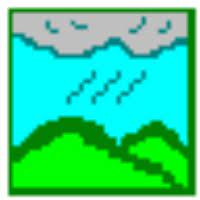
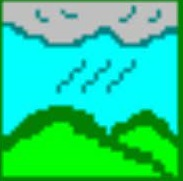
changing the colors and some styles and the project picture

diff --git a/index.html b/index.html
@@ -9,7 +9,7 @@
      <meta name="description" content="">
      <meta name="keywords" content="">
      <meta name="author" content="">
-     <meta name="viewport" content="width=device-width, initial-scale=1, maximum-scale=1">
+     <meta name="viewport" content="width=device-width, initial-scale=1.0, maximum-scale=1">
 
      <link rel="stylesheet" href="css/bootstrap.min.css">
      <link rel="stylesheet" href="css/font-awesome.min.css">
@@ -122,7 +122,7 @@
                     <div class="col-lg-6 col-md-5 col-12">
                          <div class="contact-image" data-aos="fade-up">
                               
-                              <img src="images/project.jpg" class="img-fluid projectimg" alt="project">
+                              <img src="images/projectt.jpg" class="img-fluid projectimg" alt="project">
                          </div>
                     </div>
                     
@@ -251,7 +251,7 @@
                     <div class="col-xs-6 col-lg-3 col-md-6 mb-5">
                          <div class="card h-100">
                               <!-- Product image-->
-                              <img class="card-img-top card-image" src="./images/Skills/Python.png" alt="..." />
+                              <img class="card-img-top card-image pythonimg" src="./images/Skills/Python.png" alt="..." />
                               <!-- Product details-->
                              
                               <!-- Product actions-->
@@ -457,7 +457,7 @@
         <div class="row">
 
           <div class="col-lg-5 mx-lg-auto col-md-8 col-10">
-            <h1 class="text-white" data-aos="fade-up" data-aos-delay="100"> <strong><span style="color: #f7b3c9;"> Sepideh </span> Alizadeh</strong></h1>
+            <h1 class="text-white" data-aos="fade-up" data-aos-delay="100"> <strong><span> Sepideh </span> Alizadeh</strong></h1>
           </div>
 
           <div class="col-lg-5 col-md-6 col-12" data-aos="fade-up" data-aos-delay="200">

diff --git a/css/main.css b/css/main.css
@@ -148,14 +148,15 @@
     background: var(--white-color);
     color: #990820;
     border-color: transparent;
-	transition: all .3s ease;
+  	transition: all .3s ease;
   }
   
   .custom-btn:hover,
   .custom-btn:focus {
     background: #990820;
-    color: #7c777985;
-    border-color: #7c777985;
+    color: #f7f7f7;
+    transition: all 0.75s;
+    border-color: #7c7779be;
   }
 
 
@@ -243,7 +244,7 @@
 
   .nav-link.active,
   .nav-link:hover {
-    color: #7c777985;
+    color: #c2babdfd;
   }
 
   .navbar-expand-lg .navbar-nav .nav-link {
@@ -252,17 +253,20 @@
   }
 
   .navbar-expand-lg .navbar-nav .nav-link.contact {
-    border: 2px solid #7c777985;
+    border: 2px solid #7c77796b;
     border-radius: var(--border-radius-large);
     color: var(--white-color);
     font-family: var(--font-bold-family);
     padding: 0.6em 2em 0.8em 2em;
+    transition: all 0.75s;
+
   }
 
   .navbar-expand-lg .navbar-nav .nav-link.contact:hover,
   .navbar-expand-lg .navbar-nav .nav-link.contact.active {
-    background: #7c777985;
+    background: #f7f7f7;
     color: #990820;
+    transition: all 0.75s;
   }
 
   .navbar-nav .navbar-toggler-icon {
@@ -722,10 +726,11 @@
 
 .projectimg {
   border-radius: 5%;
+  border: solid 1px #990820 ;
 }
 
 .card {
-  background-color: #7c777985;
+  background-color: #7c77796b;
   align-items: center;
 }
 
@@ -739,11 +744,33 @@
 }
 
 .card-image {
-  height: 40% !important;
-  width: 40% !important;
-  transition: all 1s;
+  transition: all 0.75s;
+  margin-top: 30px;
 }
 
 .card-image:hover{
   transform: scale(1.5);
+}
+
+@media screen and (min-width: 991px) {
+
+  .card-image {
+    height: 40% !important;
+    width: 40% !important;
+  }
+  .pythonimg{
+    height: 40% !important;
+    width: 69% !important;
+  }
+
+}
+
+@media screen and (max-width: 991px) {
+
+  .card-image {
+    width: 30%;
+  }
+  .card-image:hover{
+    transform: scale(1.25);
+  }
 }
